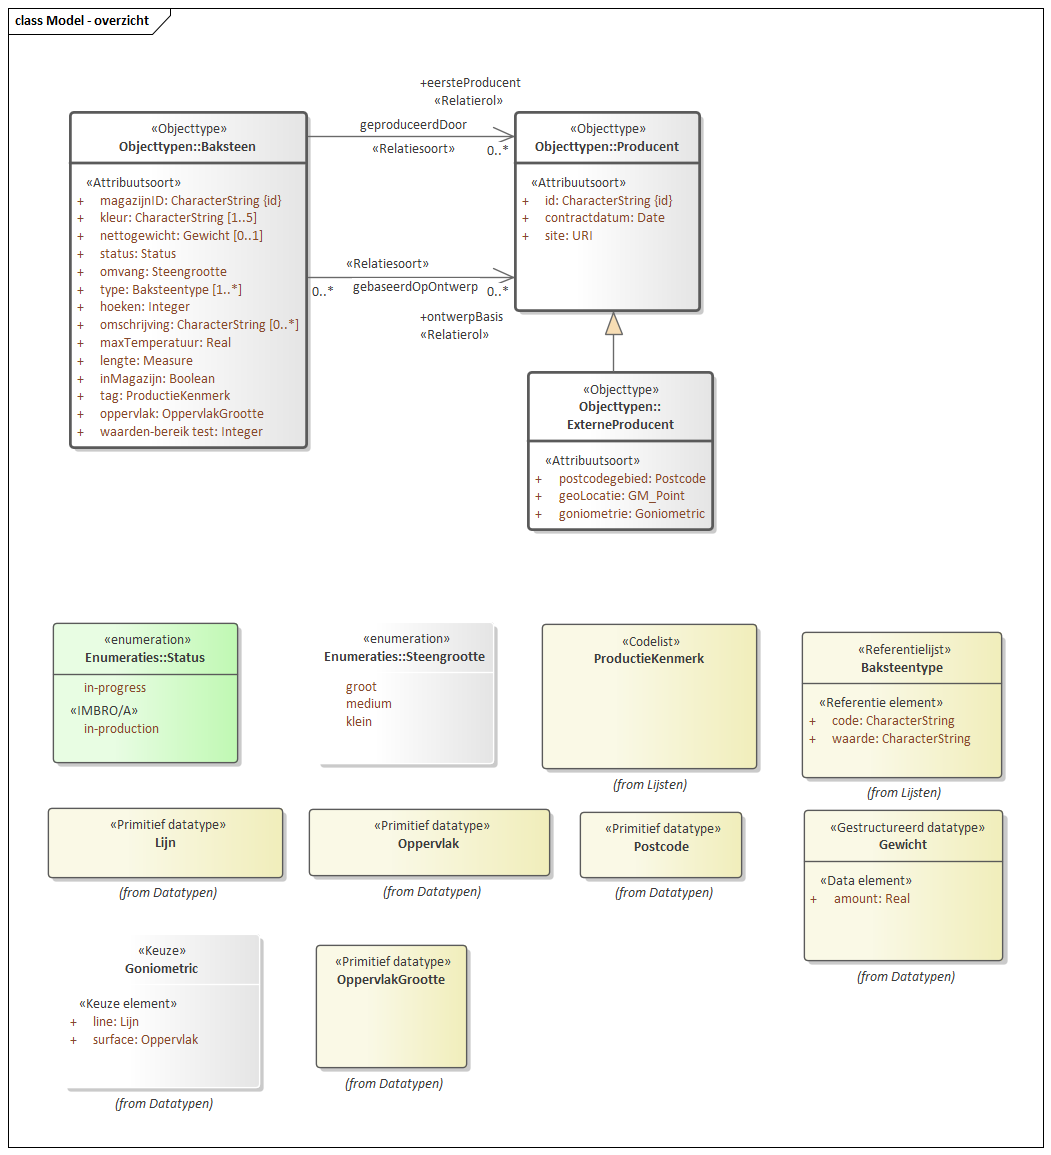
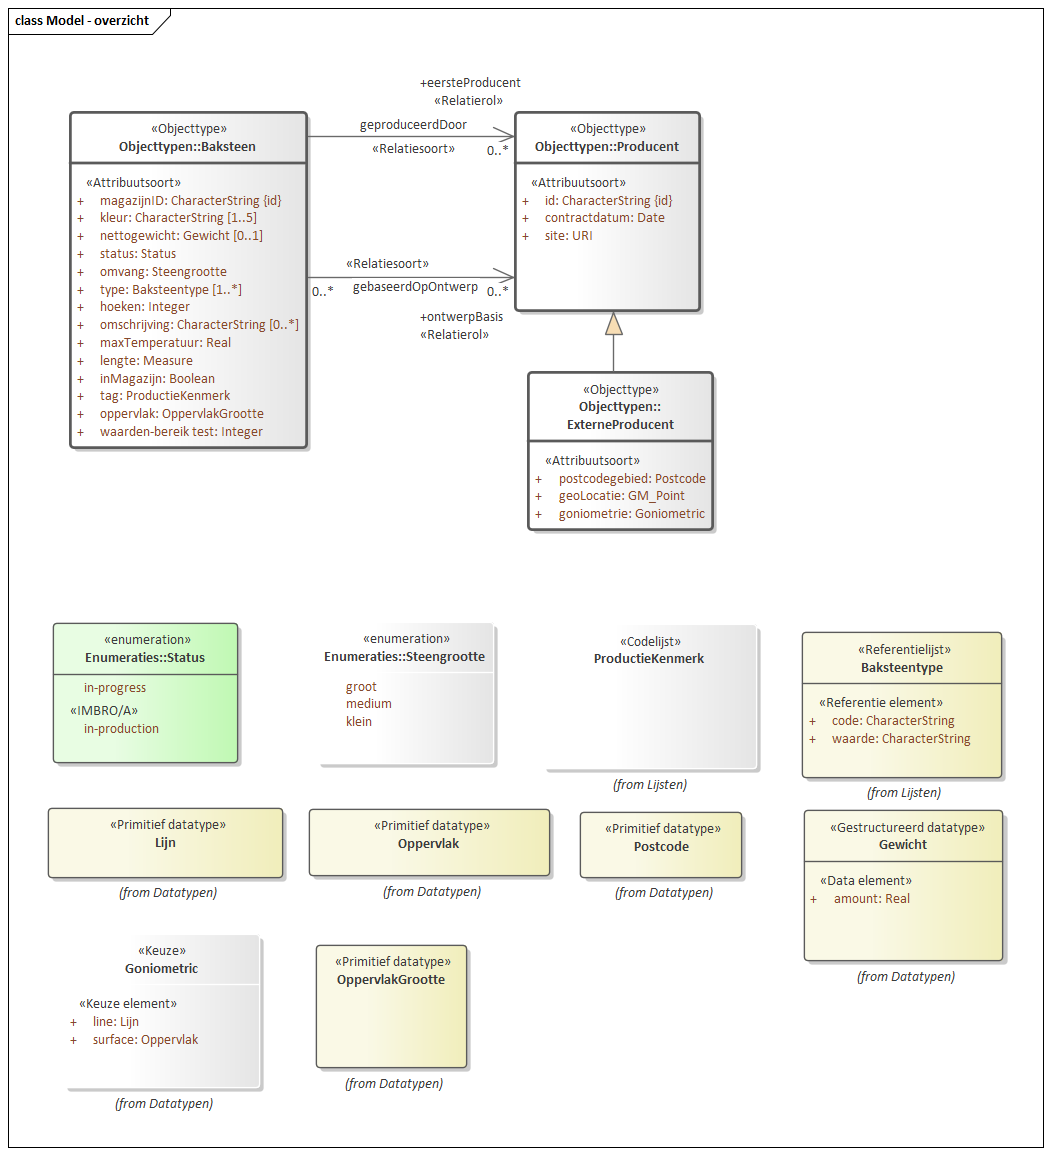
MIMCM-Bakstenenconceptueelmodel-1.0.0-2-20130318-20211022-160032

Changed region(s): [[0.5176, 0.5299, 0.7307, 0.6857]]

diff --git a/data/SAMPLE-cat.respec.html b/data/SAMPLE-cat.respec.html
@@ -1,7 +1,7 @@
 
 <!DOCTYPE HTML><section id="cat" class="normative">
    <h2>Gegevensdefinitie</h2>
-   <!--MIMCM-Bakstenenconceptueelmodel-1.0.0-2-20130318-20211022-155830 imvertor 1.65.3--><a class="anchor" id="global_d25052e1"></a><section id="global_d25052e1">
+   <!--MIMCM-Bakstenenconceptueelmodel-1.0.0-2-20130318-20211022-160032 imvertor 1.65.3--><a class="anchor" id="global_d24978e1"></a><section id="global_d24978e1">
       <h3>Model   Bakstenen conceptueel model</h3>
       <section id="EAID_08513AA0_8A50_46c1_AD86_9B80D9A6AAE1">
          <h4>   Model - overzicht</h4>
@@ -19,7 +19,7 @@
       <h3>Domein   Baksteen productie</h3>
       <section id="EAID_84CEDDF3_6992_489f_A4EE_319145DE4118">
          <h4>   Model - overzicht</h4>
-         <div class="imageinfo overview"><img src="data/Images/EAID_84CEDDF3_6992_489f_A4EE_319145DE4118.png" usemap="#imagemap-EAID_84CEDDF3_6992_489f_A4EE_319145DE4118" alt="Diagram &#xA;                        Overzicht van alle constructies in dit model voor bakstenen en hun producenten.&#xA;                     "><map name="imagemap-EAID_84CEDDF3_6992_489f_A4EE_319145DE4118"><area shape="rect" alt="Gewicht" coords="804,810,1003,961" href="#graph_EAID_11FD40A5_BE06_452a_9307_B5B5155E0EA4"><area shape="rect" alt="Baksteentype Baksteentype" coords="802,632,1002,778" href="#graph_EAID_705E4D02_09C2_4812_AA1F_D80E12C89EE0"><area shape="rect" alt="Steengrootte" coords="316,622,494,764" href="#graph_EAID_65363897_E229_41fd_BE6F_E6B1BACAD458"><area shape="rect" alt="Status" coords="53,623,238,763" href="#graph_EAID_E86D21EE_58FD_4975_9CCB_AFF2434704A8"><area shape="rect" alt="Goniometric" coords="63,934,260,1088" href="#graph_EAID_22DF50AD_91EB_4db3_AA33_D5C2CE2FB906"><area shape="rect" alt="ExterneProducent" coords="528,372,713,530" href="#graph_EAID_E2C93214_90E2_4151_B719_7BB8CDF8679F"><area shape="rect" alt="Baksteen" coords="70,112,307,448" href="#graph_EAID_CF7C4448_E50C_4c7a_B1D0_C4FCB2EB1814"><area shape="rect" alt="Producent" coords="515,112,700,311" href="#graph_EAID_04EED45C_4D30_41b9_83EE_65237E1F8E27"><area shape="rect" alt="OppervlakGrootte" coords="316,945,467,1068" href="#graph_EAID_8D034A6D_37F7_4765_9CFF_FE3DF59A8340"></map><p><b>Model - overzicht</b>
+         <div class="imageinfo overview"><img src="data/Images/EAID_84CEDDF3_6992_489f_A4EE_319145DE4118.png" usemap="#imagemap-EAID_84CEDDF3_6992_489f_A4EE_319145DE4118" alt="Diagram &#xA;                        Overzicht van alle constructies in dit model voor bakstenen en hun producenten.&#xA;                     "><map name="imagemap-EAID_84CEDDF3_6992_489f_A4EE_319145DE4118"><area shape="rect" alt="Gewicht" coords="804,810,1003,961" href="#graph_EAID_11FD40A5_BE06_452a_9307_B5B5155E0EA4"><area shape="rect" alt="Baksteentype Baksteentype" coords="802,632,1002,778" href="#graph_EAID_705E4D02_09C2_4812_AA1F_D80E12C89EE0"><area shape="rect" alt="Steengrootte" coords="316,622,494,764" href="#graph_EAID_65363897_E229_41fd_BE6F_E6B1BACAD458"><area shape="rect" alt="Status" coords="53,623,238,763" href="#graph_EAID_E86D21EE_58FD_4975_9CCB_AFF2434704A8"><area shape="rect" alt="Goniometric" coords="63,934,260,1088" href="#graph_EAID_22DF50AD_91EB_4db3_AA33_D5C2CE2FB906"><area shape="rect" alt="ExterneProducent" coords="528,372,713,530" href="#graph_EAID_E2C93214_90E2_4151_B719_7BB8CDF8679F"><area shape="rect" alt="Baksteen" coords="70,112,307,448" href="#graph_EAID_CF7C4448_E50C_4c7a_B1D0_C4FCB2EB1814"><area shape="rect" alt="ProductieKenmerk" coords="542,624,757,769" href="#graph_EAID_4D78F0AD_88ED_44ef_9A76_163426CD74D1"><area shape="rect" alt="Producent" coords="515,112,700,311" href="#graph_EAID_04EED45C_4D30_41b9_83EE_65237E1F8E27"><area shape="rect" alt="OppervlakGrootte" coords="316,945,467,1068" href="#graph_EAID_8D034A6D_37F7_4765_9CFF_FE3DF59A8340"></map><p><b>Model - overzicht</b>
                
                <p>Overzicht van alle constructies in dit model voor bakstenen en hun producenten.</p>
                </p>
@@ -229,7 +229,7 @@
                         <p>Een kenmerk waarin wordt uigedrukt welk type productie deze steen heeft voortgebracht.</p>
                         </td>
                      <td>
-                        ProductieKenmerk
+                        <a class="link" href="#global_class_BaksteenProductie_ProductieKenmerk">ProductieKenmerk</a>
                         </td>
                      <td>1</td>
                   </tr>
@@ -770,6 +770,23 @@
          
          </section>
       <section id="">
+         <h4>Codelijsten   </h4>
+         
+         <table style="width: 100%;">
+            <colgroup style="width: 30%;"></colgroup>
+            <colgroup style="width: 70%;"></colgroup>
+            <tbody>
+               <tr>
+                  <th><a class="anchor" id="graph_EAID_4D78F0AD_88ED_44ef_9A76_163426CD74D1"></a><a class="anchor" id="global_class_BaksteenProductie_ProductieKenmerk"></a><a class="link" href="#detail_class_BaksteenProductie_ProductieKenmerk">ProductieKenmerk</a></th>
+                  <td>
+                     
+                     <p>Een lijst van productiekenmerken.</p>
+                     </td>
+               </tr>
+            </tbody>
+         </table>
+         </section>
+      <section id="">
          <h4>Enumeraties   </h4>
          
          <table style="width: 100%;">
@@ -1280,7 +1297,7 @@
                         <tr>
                            <th>Type</th>
                            <td>
-                              ProductieKenmerk
+                              <a class="link" href="#detail_class_BaksteenProductie_ProductieKenmerk">ProductieKenmerk</a>
                               </td>
                         </tr>
                         <tr>
@@ -1723,19 +1740,10 @@
                            <td>1</td>
                         </tr>
                         <tr>
-                           <th>Patroon</th>
-                           <td>De verzameling van waarden die gegevens van deze union element kunnen hebben (bereik)
-                              dan wel moeten voldoen aan een specifiek patroon.</td>
-                        </tr>
-                        <tr>
                            <th>Type</th>
                            <td>
                               Lijn
                               </td>
-                        </tr>
-                        <tr>
-                           <th>Indicatie afleidbaar</th>
-                           <td>Zie package</td>
                         </tr>
                      </tbody>
                   </table>
@@ -2675,7 +2683,7 @@
 </section>
 <section id="lis" class="normative">
    <h2>Inhoud van waardenlijsten</h2>
-   <!--MIMCM-Bakstenenconceptueelmodel-1.0.0-2-20130318-20211022-155830 imvertor 1.65.3-->
+   <!--MIMCM-Bakstenenconceptueelmodel-1.0.0-2-20130318-20211022-160032 imvertor 1.65.3-->
    <section id="">
       <h3>Referentielijst inhoud   </h3><a class="anchor" id="graph_EAID_705E4D02_09C2_4812_AA1F_D80E12C89EE0"></a><a class="anchor" id="detail_class_BaksteenProductie_Baksteentype"></a><section id="detail_class_BaksteenProductie_Baksteentype">
          <h4>Referentielijst  Baksteentype</h4>
@@ -2716,7 +2724,30 @@
          </section>
    </section>
    <section id="">
-      <h3>Codelijst inhoud   </h3>
+      <h3>Codelijst inhoud   </h3><a class="anchor" id="graph_EAID_4D78F0AD_88ED_44ef_9A76_163426CD74D1"></a><a class="anchor" id="detail_class_BaksteenProductie_ProductieKenmerk"></a><section id="detail_class_BaksteenProductie_ProductieKenmerk">
+         <h4>Codelijst details  ProductieKenmerk</h4>
+         
+         <table style="width: 100%;" class="list">
+            <colgroup></colgroup>
+            <tbody>
+               <tr>
+                  <td>
+                     
+                     <p>Een lijst van productiekenmerken.</p>
+                     </td>
+               </tr>
+            </tbody>
+         </table>
+         
+         <table style="width: 100%;">
+            <tbody>
+               <tr>
+                  <th>Waarde</th>
+                  <th>Omschrijving</th>
+               </tr>
+            </tbody>
+         </table>
+         </section>
    </section>
    <section id="">
       <h3>Enumeratie inhoud   </h3><a class="anchor" id="graph_EAID_65363897_E229_41fd_BE6F_E6B1BACAD458"></a><a class="anchor" id="detail_class_BaksteenProductie_Steengrootte"></a><section id="detail_class_BaksteenProductie_Steengrootte">
